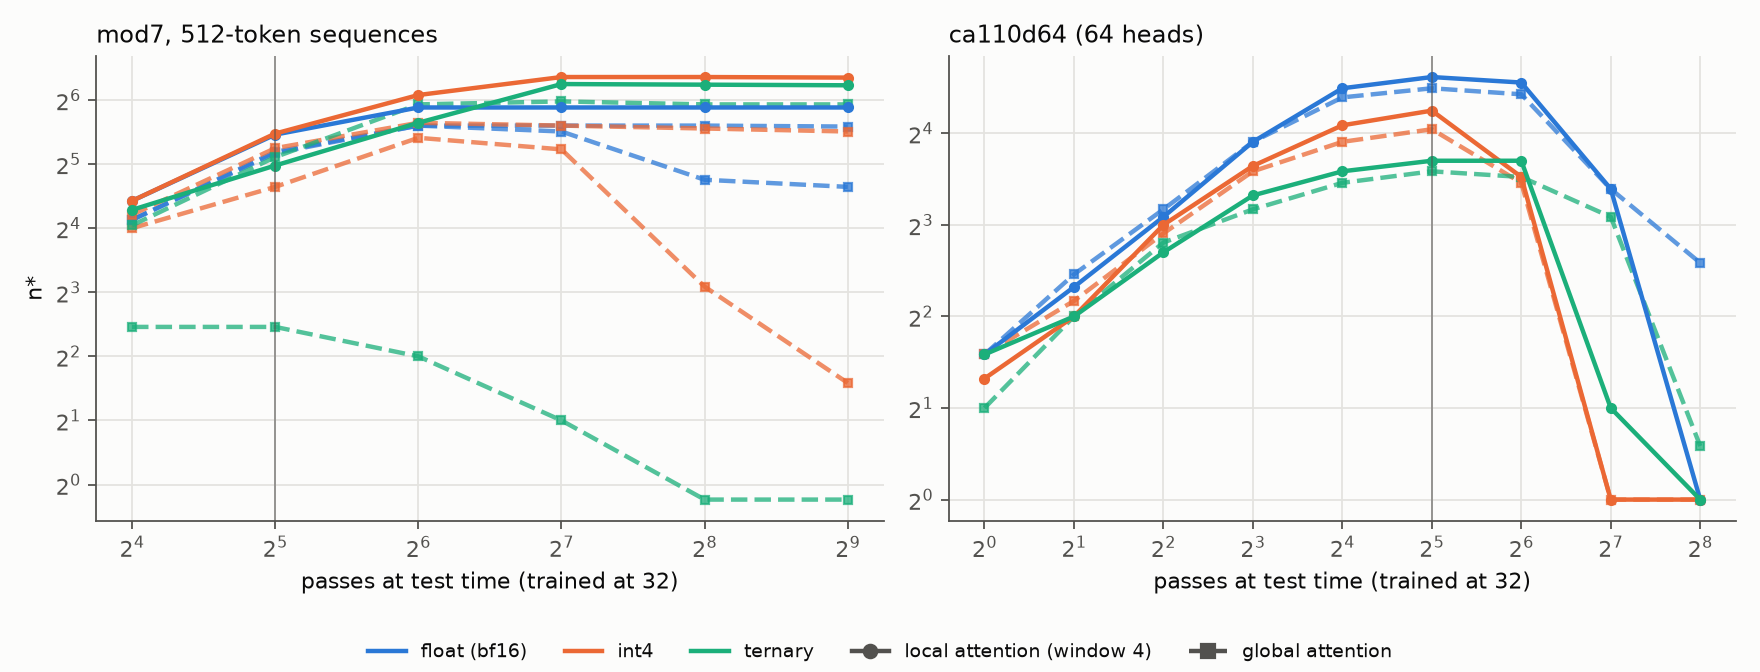
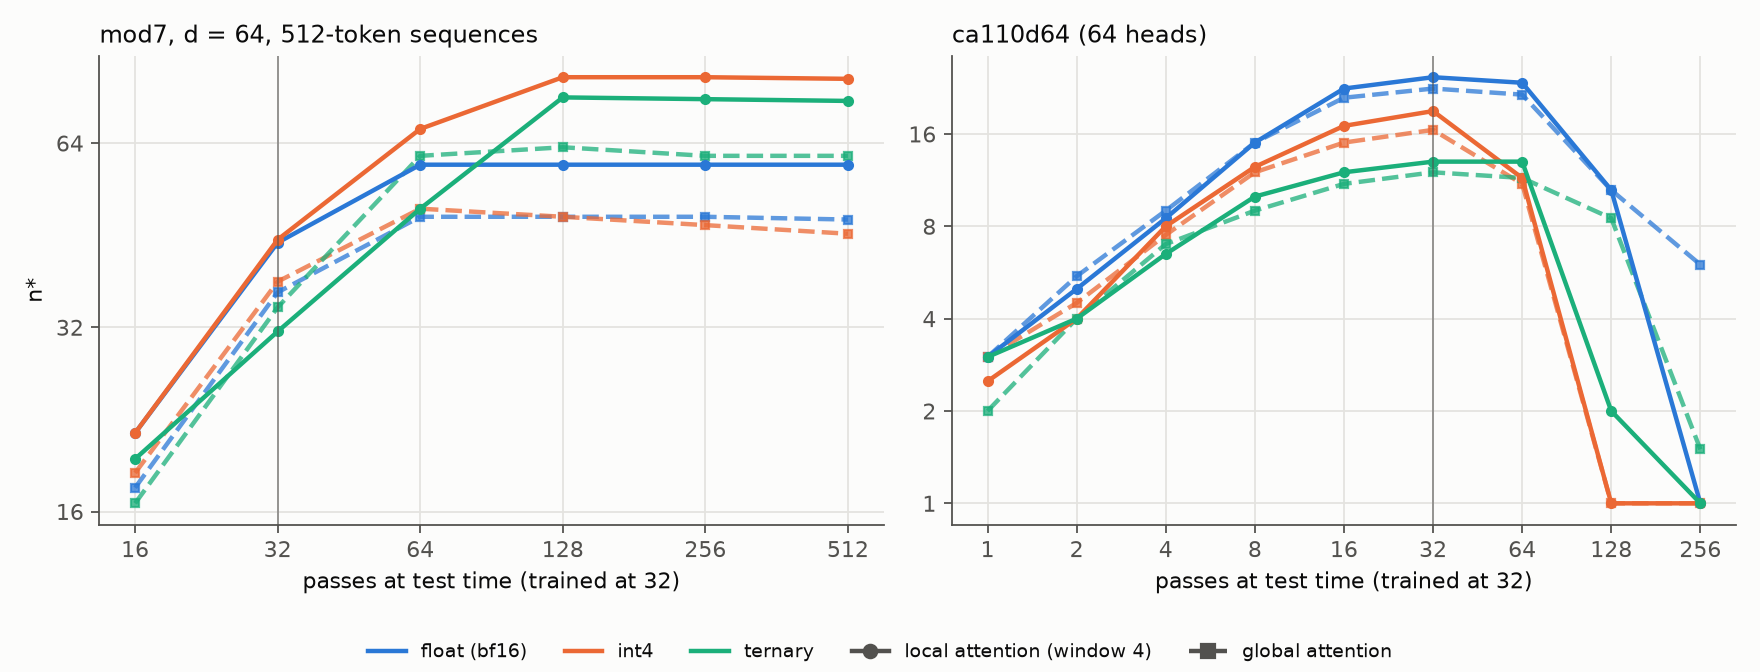
Phase 2 analysis: memrand tables and figure, honest no-signal verdict, cleaner extrapolation figure

diff --git a/scripts/analyze_phase2.py b/scripts/analyze_phase2.py
@@ -13,6 +13,7 @@ import statistics
 from pathlib import Path
 
 import matplotlib
+import matplotlib.ticker
 
 matplotlib.use("Agg")
 import matplotlib.pyplot as plt  # noqa: E402
@@ -43,9 +44,9 @@ def med(v):
 
 
 # ------------------------------------------------------------------ Q1
-def load_mem():
+def load_mem(task="memrand"):
     rows = []
-    for p in sorted((P2 / "runs").glob("mem16_*.json")):
+    for p in sorted((P2 / "runs").glob(f"{task}_*.json")):
         r = json.loads(p.read_text(encoding="utf-8"))
         T = r["T"]
         for m in r["models"]:
@@ -72,13 +73,16 @@ def q1(rows):
             out["cells"][f"d{d}_b{b}"] = cell
             if 4 in cell and len(cell) >= 2:
                 tmax = max(cell)
-                ratio = cell[tmax] / cell[4] if cell[4] > 0 else float("inf")
-                verdict = "flat" if 0.75 <= ratio <= 1.25 else ("grows" if ratio >= 1.5 else "in between")
+                if cell[4] < 100:  # nothing stored at the reference T: the ratio is meaningless
+                    ratio, verdict = float("nan"), "no signal"
+                else:
+                    ratio = cell[tmax] / cell[4]
+                    verdict = "flat" if 0.75 <= ratio <= 1.25 else ("grows" if ratio >= 1.5 else "in between")
                 out["verdicts"][f"d{d}_b{b}"] = {"T_max": tmax, "ratio_vs_T4": ratio, "verdict": verdict}
     return out
 
 
-def fig_q1(rows):
+def fig_q1(rows, task="memrand"):
     ds = sorted({r["d"] for r in rows})
     if not ds:
         return
@@ -99,13 +103,13 @@ def fig_q1(rows):
         ax.minorticks_off()
         ax.set_yscale("log", base=2)
         ax.set_xlabel("passes T")
-        ax.set_title(f"mem16, tied d = {d} (W = {W:,})", loc="left", fontsize=11)
+        ax.set_title(f"{task}, tied d = {d} (W = {W:,})", loc="left", fontsize=11)
     axes[0][0].set_ylabel("stored bits per parameter")
     axes[0][0].text(1.0, 16 * 1.08, "dashed: claim A bound, b bits per weight", color=INK2, fontsize=8)
     h, l = axes[0][0].get_legend_handles_labels()
     fig.legend(h, l, loc="lower center", ncol=3, fontsize=9, bbox_to_anchor=(0.5, -0.01))
     fig.tight_layout(rect=(0, 0.07, 1, 1))
-    fig.savefig(FIG / "phase2_memorization.png", dpi=160)
+    fig.savefig(FIG / f"phase2_memorization_{task}.png", dpi=160)
     plt.close(fig)
 
 
@@ -154,7 +158,8 @@ def q2(ex, ca):
 
 
 def fig_q2(ex, ca):
-    panels = [("mod7, 512-token sequences", {k: v for k, v in ex.items() if "mod7" in k and "T32" in k}),
+    panels = [("mod7, d = 64, 512-token sequences",
+               {k: v for k, v in ex.items() if "mod7" in k and "d64_T32" in k}),
               ("ca110d64 (64 heads)", ca)]
     fig, axes = plt.subplots(1, 2, figsize=(11, 4.2), squeeze=False)
     for ax, (title, group) in zip(axes[0], panels):
@@ -170,6 +175,8 @@ def fig_q2(ex, ca):
                         marker="o" if local else "s", markersize=4, alpha=1.0 if local else 0.75)
         ax.set_xscale("log", base=2)
         ax.set_yscale("log", base=2)
+        for axis in (ax.xaxis, ax.yaxis):
+            axis.set_major_formatter(matplotlib.ticker.FuncFormatter(lambda v, _: f"{v:g}"))
         ax.set_xlabel("passes at test time (trained at 32)")
         ax.set_title(title, loc="left", fontsize=11)
         ax.axvline(32, color=INK2, lw=0.8, alpha=0.6)
@@ -187,21 +194,29 @@ def main():
     style()
     FIG.mkdir(exist_ok=True)
     P2.mkdir(parents=True, exist_ok=True)
-    mem = load_mem()
-    r1 = q1(mem) if mem else {}
+    q1_all = {}
+    mems = {t: load_mem(t) for t in ("memrand", "mem16")}
     ex, ca = load_extrap(), load_ca64()
     r2, v2 = q2(ex, ca)
     md = ["# Phase 2 summary (generated by scripts/analyze_phase2.py)", ""]
-    if mem:
-        md += ["## Q1: memorization capacity against passes", "",
-               "Stored bits (median over seeds); bound = W*b + scale bits + log2 T.", "",
+    for task, mem in mems.items():
+        if not mem:
+            continue
+        r1 = q1(mem)
+        q1_all[task] = r1
+        note = " (original design, no signal; see amendment 1)" if task == "mem16" else ""
+        md += [f"## Q1 ({task}{note}): memorization capacity against passes", "",
+               "Stored bits (median over seeds); bound = W*b + scale bits + log2 T; "
+               "bits/param in parentheses.", "",
                "| d | b | " + " | ".join(f"T={T}" for T in sorted({r['T'] for r in mem})) + " | bound | verdict |",
                "|---|---|" + "---|" * (len({r['T'] for r in mem}) + 2)]
         for d in sorted({r["d"] for r in mem}):
             for b in BITS:
                 cell = r1["cells"].get(f"d{d}_b{b}", {})
                 bound = med([r["bound"] for r in mem if r["d"] == d and r["bits"] == b])
-                vals = [f"{cell[T]:,.0f}" if T in cell else "–" for T in sorted({r['T'] for r in mem})]
+                Wd = next(r["W"] for r in mem if r["d"] == d)
+                vals = [f"{cell[T]:,.0f} ({cell[T] / Wd:.2f})" if T in cell else "–"
+                        for T in sorted({r['T'] for r in mem})]
                 v = r1["verdicts"].get(f"d{d}_b{b}", {})
                 md.append(f"| {d} | {B_LABEL[b]} | " + " | ".join(vals) +
                           f" | {bound:,.0f} | {v.get('verdict', '–')} ({v.get('ratio_vs_T4', float('nan')):.2f}) |"
@@ -220,10 +235,10 @@ def main():
                       else f"| {name} | {c} | – | – |")
         md.append("")
     (P2 / "summary.md").write_text("\n".join(md), encoding="utf-8")
-    (P2 / "summary.json").write_text(json.dumps({"q1": r1, "q2": r2, "q2_verdicts": v2}, indent=1,
+    (P2 / "summary.json").write_text(json.dumps({"q1": q1_all, "q2": r2, "q2_verdicts": v2}, indent=1,
                                                 default=str), encoding="utf-8")
-    if mem:
-        fig_q1(mem)
+    if mems.get("memrand"):
+        fig_q1(mems["memrand"], "memrand")
     if ex or ca:
         fig_q2(ex, ca)
     print("\n".join(md))

diff --git a/results/phase2/summary.md b/results/phase2/summary.md
@@ -1,17 +1,17 @@
 # Phase 2 summary (generated by scripts/analyze_phase2.py)
 
-## Q1: memorization capacity against passes
+## Q1 (mem16 (original design, no signal; see amendment 1)): memorization capacity against passes
 
-Stored bits (median over seeds); bound = W*b + scale bits + log2 T.
+Stored bits (median over seeds); bound = W*b + scale bits + log2 T; bits/param in parentheses.
 
 | d | b | T=1 | T=2 | T=4 | T=8 | T=16 | T=32 | bound | verdict |
 |---|---|---|---|---|---|---|---|---|---|
-| 16 | float (bf16) | 0 | -1 | -4 | -2 | -9 | -15 | 50,434 | grows (inf) |
-| 16 | int4 | 0 | 1 | -2 | -2 | 5 | 3 | 12,509 | grows (inf) |
-| 16 | ternary | 0 | 2 | -26 | -1 | 1 | 2 | 5,190 | grows (inf) |
-| 32 | float (bf16) | 0 | – | -13 | – | -1 | – | 199,170 | grows (inf) |
-| 32 | int4 | 3 | – | -72 | – | -0 | – | 48,827 | grows (inf) |
-| 32 | ternary | -0 | – | -0 | – | 0 | – | 19,924 | grows (inf) |
+| 16 | float (bf16) | 0 (0.00) | -1 (-0.00) | -4 (-0.00) | -2 (-0.00) | -9 (-0.00) | -15 (-0.00) | 50,434 | no signal (nan) |
+| 16 | int4 | 0 (0.00) | 1 (0.00) | -2 (-0.00) | -2 (-0.00) | 5 (0.00) | 3 (0.00) | 12,509 | no signal (nan) |
+| 16 | ternary | 0 (0.00) | 2 (0.00) | -26 (-0.01) | -1 (-0.00) | 1 (0.00) | 2 (0.00) | 5,190 | no signal (nan) |
+| 32 | float (bf16) | 0 (0.00) | – | -13 (-0.00) | – | -1 (-0.00) | – | 199,170 | no signal (nan) |
+| 32 | int4 | 3 (0.00) | – | -72 (-0.01) | – | -0 (-0.00) | – | 48,827 | no signal (nan) |
+| 32 | ternary | -0 (-0.00) | – | -0 (-0.00) | – | 0 (0.00) | – | 19,924 | no signal (nan) |
 
 Bound violations: 0.
 Unsaturated models (last two logged values differ by > 5%): 54 of 54.
